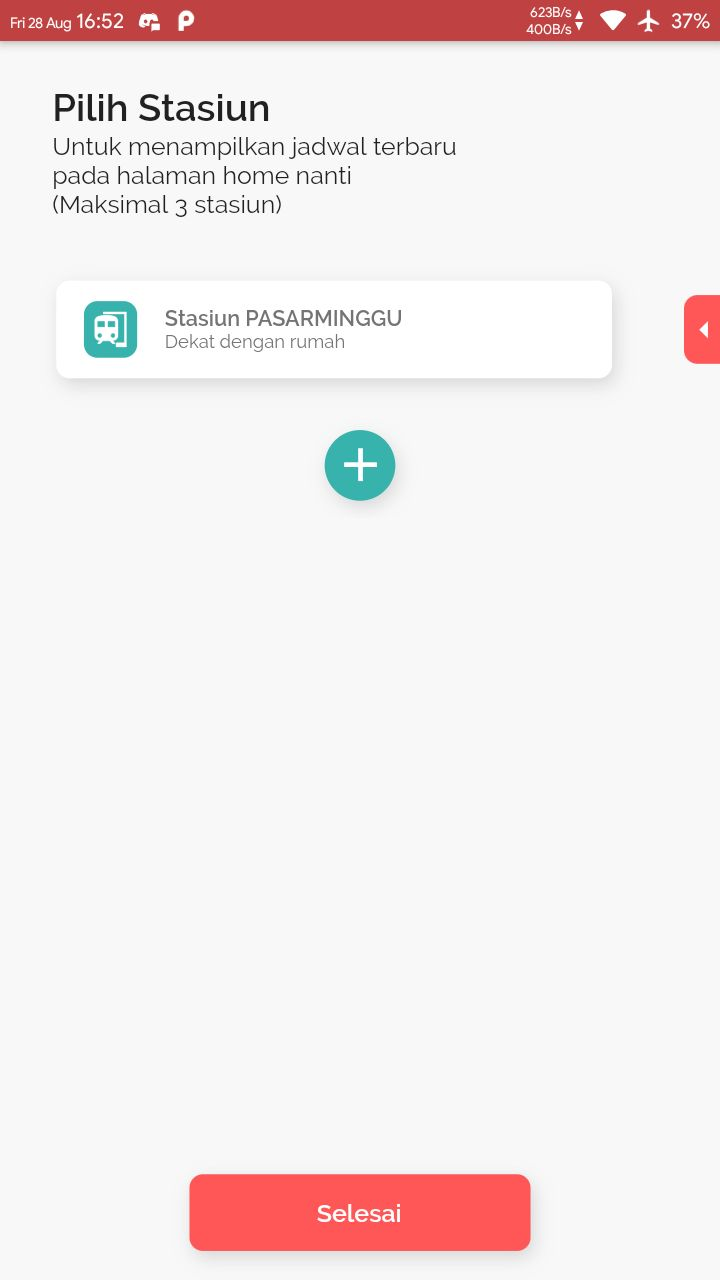
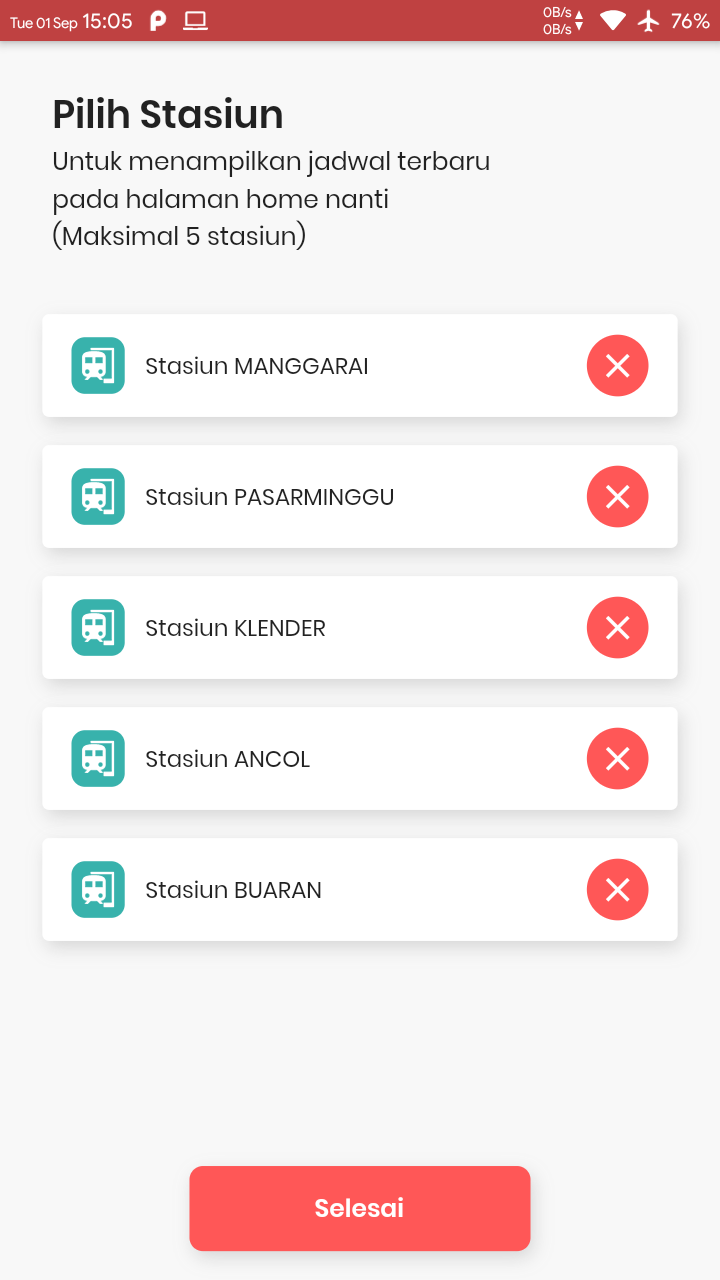
Add: Update README.MD

diff --git a/lib/ui/page/user_profilling_page.dart b/lib/ui/page/user_profilling_page.dart
@@ -98,13 +98,104 @@ class CenterUserProfilling extends ViewModelWidget<UserProfillingViewmodel> {
               onDismissed: (direction) {
                 viewModel.removeStatiunList(index);
               },
-              child: itemStatsiun(
-                context,
-                viewModel.selectStationList[index],
-              ),
+              child: ItemStation(index),
             );
           },
         ),
+      ),
+    );
+  }
+
+  Widget removeIcon() {
+    return Stack(
+      children: [
+        Align(
+          alignment: Alignment(0.2, 0),
+          child: Icon(
+            Icons.clear,
+            color: whiteColor,
+          ),
+        ),
+        Align(
+          alignment: Alignment(0.5, 0),
+          child: TextFormat(
+            "Hapus",
+            fontColor: whiteColor,
+            fontSize: 16,
+            fontWeight: FontWeight.bold,
+          ),
+        ),
+      ],
+    );
+  }
+}
+
+class ItemStation extends ViewModelWidget<UserProfillingViewmodel> {
+  final int index;
+  ItemStation(this.index, {Key key}) : super(key: key, reactive: false);
+
+  @override
+  Widget build(BuildContext context, UserProfillingViewmodel viewModel) {
+    return Container(
+      padding: EdgeInsets.all(Sizes.dp12(context)),
+      margin: EdgeInsets.symmetric(
+        vertical: Sizes.dp8(context),
+        horizontal: Sizes.dp24(context),
+      ),
+      decoration: BoxDecoration(
+        color: whiteColor,
+        boxShadow: boxShadowBottom,
+        borderRadius: BorderRadius.circular(4)
+      ),
+      child: Flex(
+        direction: Axis.horizontal,
+        mainAxisAlignment: MainAxisAlignment.center,
+        children: [
+          Flexible(
+            flex: 1,
+            child: Container(
+              padding: EdgeInsets.all(Sizes.dp6(context)),
+              decoration: BoxDecoration(
+                borderRadius: BorderRadius.circular(8),
+                color: accentColor,
+              ),
+              child: SvgPicture.asset("$svgAsset/TrainStationIcon.svg"),
+            ),
+          ),
+          Expanded(
+            flex: 7,
+            child: Container(
+              padding: EdgeInsets.symmetric(
+                horizontal: Sizes.dp12(context),
+                vertical: Sizes.dp6(context),
+              ),
+              decoration: BoxDecoration(
+                borderRadius: BorderRadius.circular(8),
+              ),
+              child: TextFormat(
+                "Stasiun ${viewModel.selectStationList[index].stationName}",
+                fontSize: 15,
+              ),
+            ),
+          ),
+          Flexible(
+            flex: 1,
+            child: GestureDetector(
+              onTap: () async => viewModel.removeStatiunList(index),
+              child: Container(
+                padding: EdgeInsets.all(Sizes.dp6(context)),
+                decoration: BoxDecoration(
+                  borderRadius: BorderRadius.circular(100),
+                  color: primaryColor,
+                ),
+                child: Icon(
+                  Icons.clear,
+                  color: whiteColor,
+                ),
+              ),
+            ),
+          ),
+        ],
       ),
     );
   }
@@ -125,98 +216,4 @@ class BottomUserProfilling extends ViewModelWidget<UserProfillingViewmodel> {
       ),
     );
   }
-}
-
-Widget removeIcon() {
-  return Stack(
-    children: [
-      Align(
-        alignment: Alignment(0.2, 0),
-        child: Icon(
-          Icons.clear,
-          color: whiteColor,
-        ),
-      ),
-      Align(
-        alignment: Alignment(0.5, 0),
-        child: TextFormat(
-          "Hapus",
-          fontColor: whiteColor,
-          fontSize: 16,
-          fontWeight: FontWeight.bold,
-        ),
-      ),
-    ],
-  );
-}
-
-Widget itemStatsiun(BuildContext context, SelectedStation selectedStation) {
-  return Row(
-    mainAxisAlignment: MainAxisAlignment.spaceBetween,
-    children: [
-      Flexible(
-        flex: 17,
-        child: Container(
-          margin: EdgeInsets.only(
-            left: Sizes.dp32(context),
-            top: Sizes.dp10(context),
-            bottom: Sizes.dp10(context),
-          ),
-          padding: EdgeInsets.symmetric(
-            vertical: Sizes.dp12(context),
-            horizontal: Sizes.dp16(context),
-          ),
-          decoration: BoxDecoration(
-            color: whiteColor,
-            borderRadius: BorderRadius.circular(8),
-            boxShadow: boxShadowBottom,
-          ),
-          child: Row(
-            children: [
-              Container(
-                padding: EdgeInsets.all(Sizes.dp6(context)),
-                decoration: BoxDecoration(
-                  borderRadius: BorderRadius.circular(8),
-                  color: accentColor,
-                ),
-                child: SvgPicture.asset("$svgAsset/TrainStationIcon.svg"),
-              ),
-              SizedBox(width: Sizes.dp16(context)),
-              SizedBox(
-                width: Sizes.width(context) / 1.8,
-                child: TextFormat(
-                  "Stasiun ${selectedStation.stationName}",
-                  fontSize: Sizes.dp14(context),
-                  fontWeight: FontWeight.w600,
-                  textAlign: TextAlign.start,
-                  fontColor: darkTextColor,
-                ),
-              ),
-            ],
-          ),
-        ),
-      ),
-      Flexible(
-        flex: 2,
-        child: SizedBox(),
-      ),
-      Flexible(
-        flex: 1,
-        child: Container(
-          decoration: BoxDecoration(
-            color: primaryColor,
-            borderRadius: BorderRadius.only(
-              topLeft: Radius.circular(8),
-              bottomLeft: Radius.circular(8),
-            ),
-          ),
-          padding: EdgeInsets.symmetric(vertical: Sizes.dp8(context)),
-          child: Icon(
-            Icons.arrow_left,
-            color: whiteColor,
-          ),
-        ),
-      )
-    ],
-  );
 }

diff --git a/lib/ui/page/home/home_page.dart b/lib/ui/page/home/home_page.dart
@@ -26,20 +26,22 @@ class _HomeViewState extends State<HomeView>
               return <Widget>[
                 SliverAppBar(
                   flexibleSpace: HeaderHomePage(),
-                  expandedHeight: Sizes.dp51(context),
+                  collapsedHeight: Sizes.dp47(context),
                   pinned: true,
-                  excludeHeaderSemantics: true,
                   forceElevated: isScrolled,
                   bottom: TabBar(
                     tabs: viewmodel.tab,
-                    indicatorWeight: 4,
-                    isScrollable: (viewmodel.stationList.length > 3),
-                    indicatorColor: yellowColor,
-                    labelPadding: EdgeInsets.symmetric(
-                      vertical: 4,
-                      horizontal: 4,
-                    ),
+                    indicatorSize: TabBarIndicatorSize.tab,
+                    isScrollable: true,
                     controller: viewmodel.tabController,
+                    labelPadding: EdgeInsets.symmetric(
+                      horizontal: Sizes.width(context) / (4 * viewmodel.stationList.length),
+                    ),
+                    indicator: BubbleTabIndicator(
+                      insets: EdgeInsets.symmetric(vertical: -4),
+                      indicatorColor: accentColor,
+                      tabBarIndicatorSize: TabBarIndicatorSize.tab,
+                    ),
                   ),
                 ),
               ];
@@ -129,7 +131,6 @@ class HeaderHomePage extends ViewModelWidget<HomeViewmodel> {
 }
 
 class BodyHomePage extends ViewModelWidget<HomeViewmodel> {
-  BodyHomePage() : super(reactive: false);
 
   @override
   Widget build(BuildContext context, HomeViewmodel viewmodel) {

diff --git a/lib/core/viewmodel/home/home_viewmodel.dart b/lib/core/viewmodel/home/home_viewmodel.dart
@@ -30,11 +30,10 @@ class HomeViewmodel extends StreamViewModel<List<ScheduleStationResponse>> {
   Stream<List<ScheduleStationResponse>> get stream => getScheduleStation();
 
   Stream<List<ScheduleStationResponse>> getScheduleStation() async* {
-    // Looping get schedule every 20 seconds
+    // Looping get schedule every 30 seconds
     while (true) {
       List<ScheduleStationResponse> listSchedule = [];
-      yield listSchedule;
-
+      
       String message;
 
       String fromTime = DateFormat.Hm().format(DateTime.now());
@@ -61,7 +60,8 @@ class HomeViewmodel extends StreamViewModel<List<ScheduleStationResponse>> {
       }
 
       yield listSchedule;
-      await Future.delayed(Duration(seconds: 20));
+      notifyListeners();
+      await Future.delayed(Duration(seconds: 30));
     }
   }
 

diff --git a/lib/ui/page/pages.dart b/lib/ui/page/pages.dart
@@ -3,6 +3,7 @@
 // ---------------
 
 // Import package
+import 'package:bubble_tab_indicator/bubble_tab_indicator.dart';
 import 'package:flutter/material.dart';
 import 'package:flutter_svg/svg.dart';
 import 'package:krl_schedule/core/model/models.dart';
@@ -62,12 +63,5 @@ Widget buildTitleHeader(
 }
 
 Widget builTab(String title) {
-  return Row(
-    mainAxisAlignment: MainAxisAlignment.center,
-    children: [
-      SvgPicture.asset("$svgAsset/TrainStationIcon.svg"),
-      SizedBox(width: 4),
-      TextFormat(title, fontColor: whiteColor, fontSize: 10,),
-    ],
-  );
+  return Tab(text: title,);
 }

diff --git a/README.md b/README.md
@@ -10,7 +10,7 @@
 
 ## 📸 Example Android
 <pre>
-<img src="screenshot/android1.jpg" width="200"> <img src="screenshot/android2.jpg" width="200"> <img src="screenshot/android3.jpg" width="200"> <img src="screenshot/android4.jpg" width="200"> <img src="screenshot/android5.jpg" width="200">
+<img src="screenshot/android1.jpg" width="200"> <img src="screenshot/android2.jpg" width="200"> <img src="screenshot/android3.jpg" width="200"> <img src="screenshot/android4.jpg" width="200">
 </pre>
 
 ## 📁 Direktori
